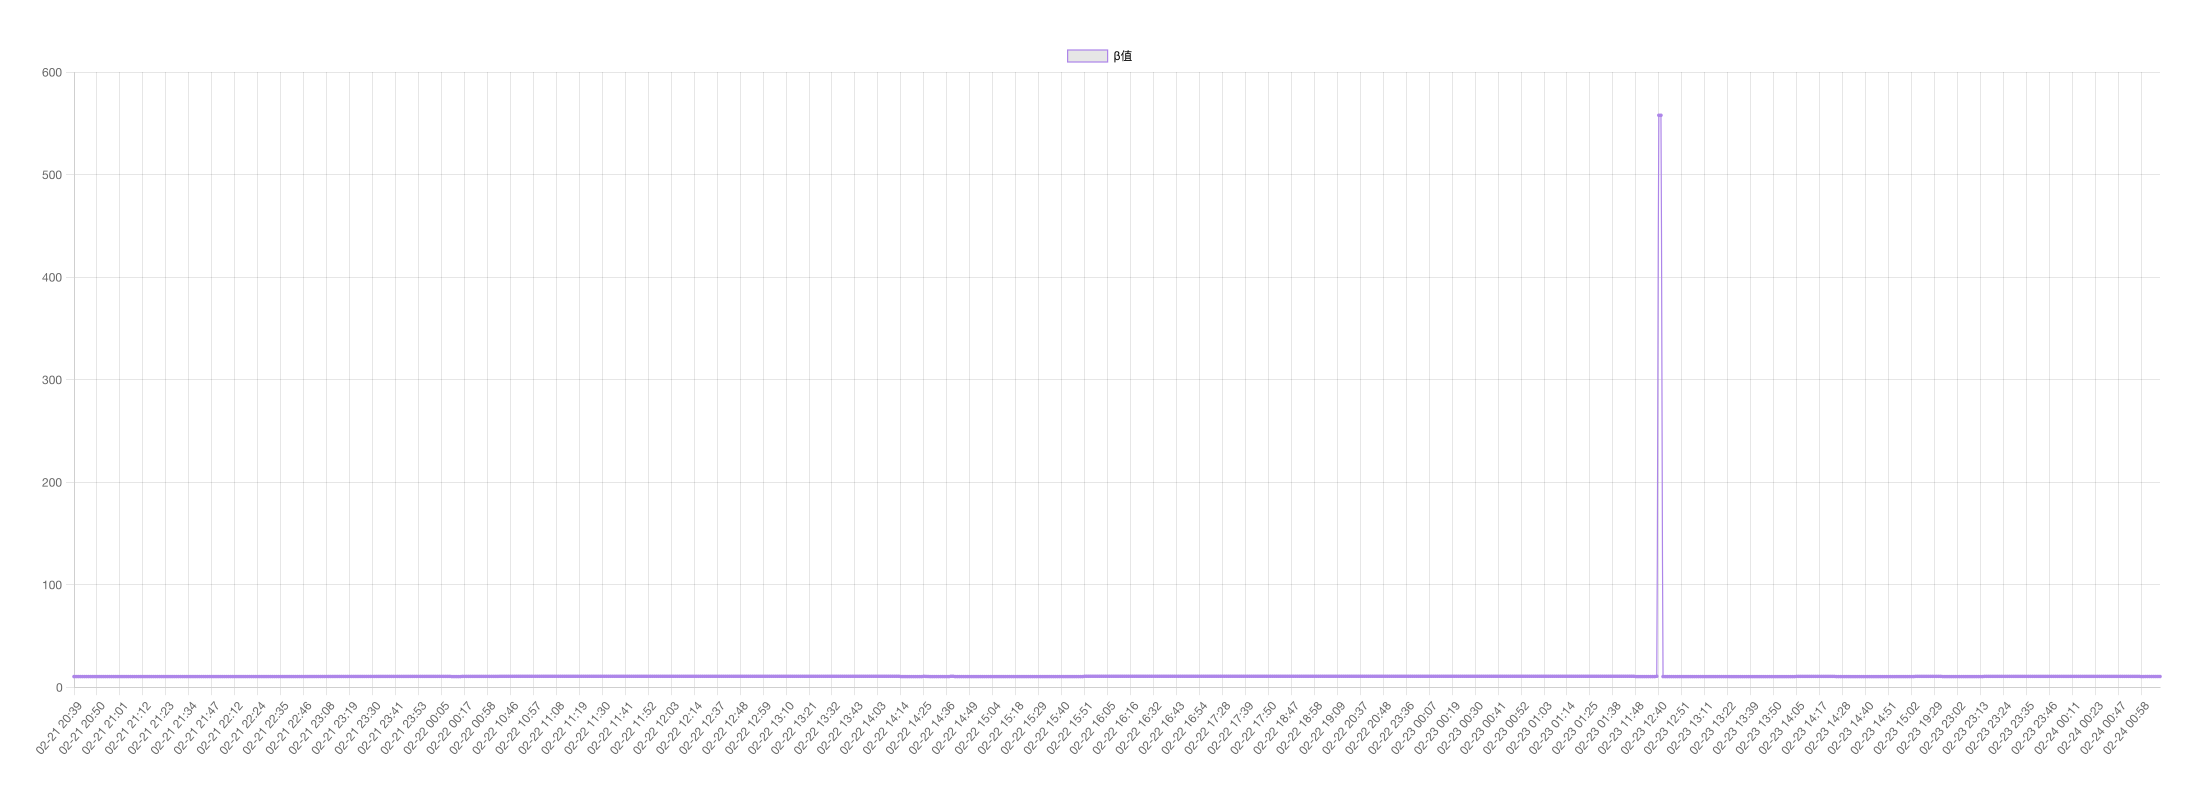
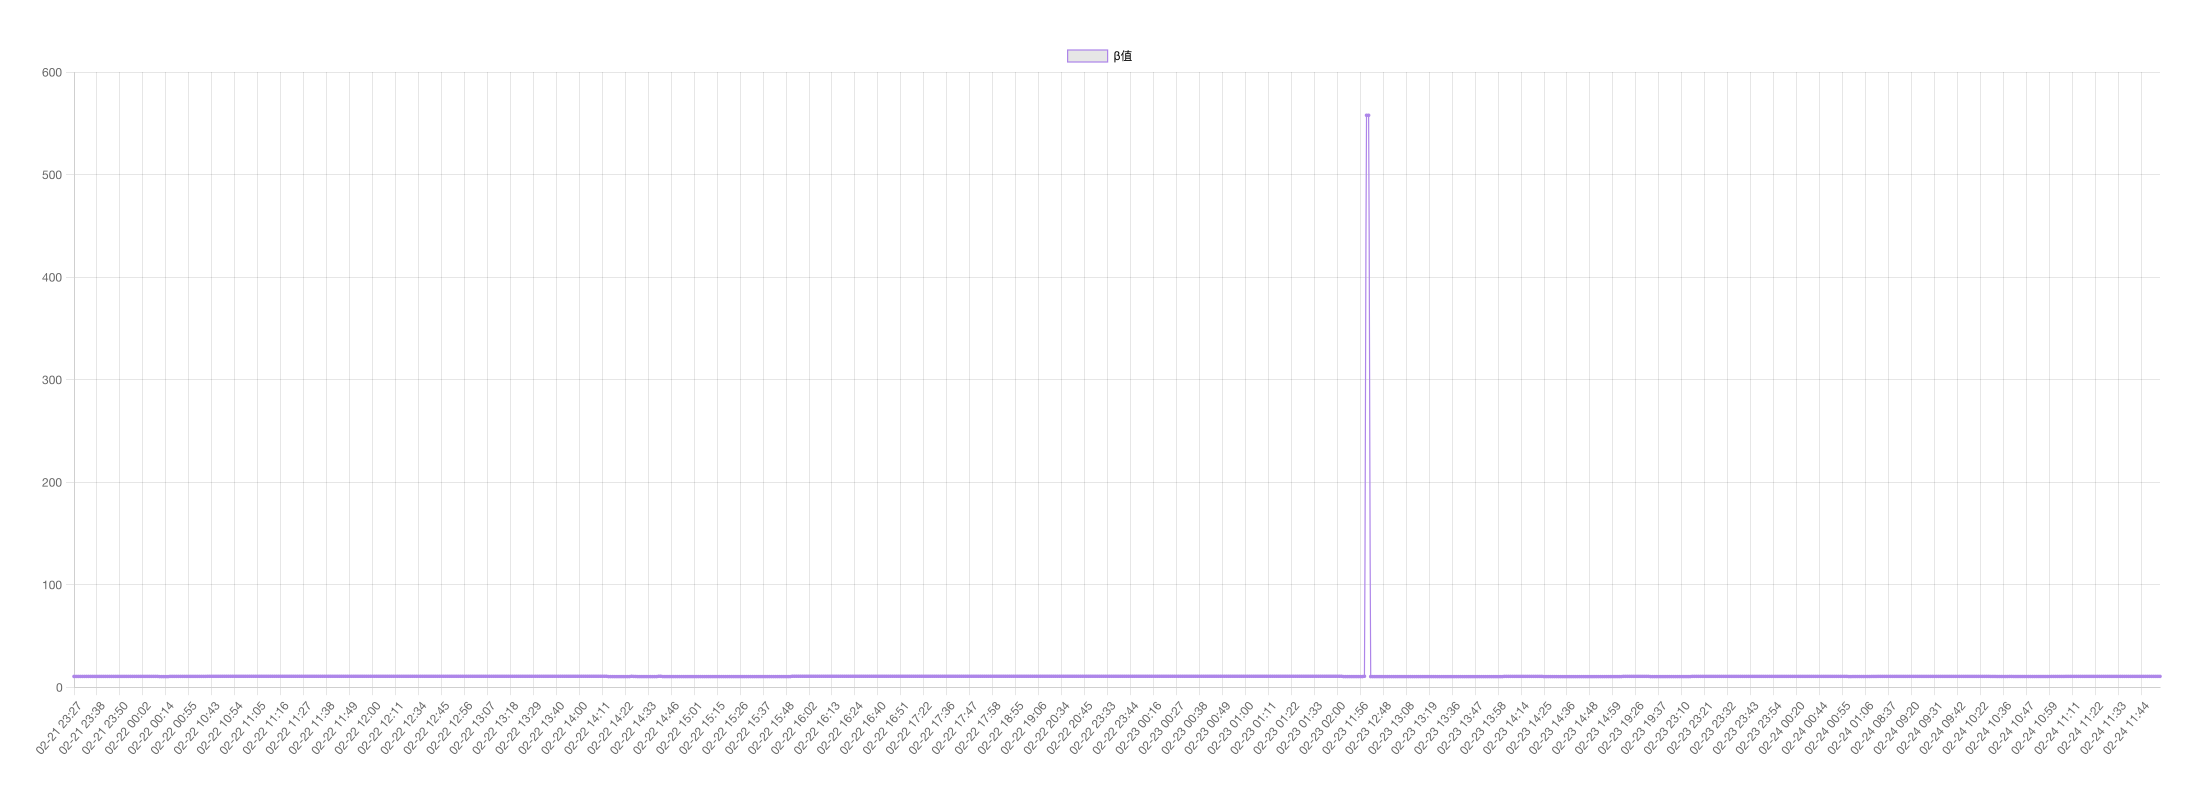
对K线去重

Changed region(s): [[0.0309, 0.875, 0.9891, 0.9062]]

diff --git a/src/paint.js b/src/paint.js
@@ -50,6 +50,8 @@ export function paint(assetIds, scaled_prices, themes, labels, gate, klines, bet
     plugins:[{
       afterDraw: function(chart) {
         const ctx = chart.ctx;
+        const collisionAvoidance = createCollisionAvoidance();
+
         drawTable(ctx, calculateCorrelationMatrix(klines.map(it=>it.prices)), assetIds, themes);
         const info_data = assetIds.map((assetId, i_info)=>{
           // 价格
@@ -72,7 +74,7 @@ export function paint(assetIds, scaled_prices, themes, labels, gate, klines, bet
             profit[`${assetIds[i]}:${assetIds[j]}`] = paintTradingSignal(chart, scaled_prices[i], scaled_prices[j], gate, klines, {
               key: `${s(assetIds[i])}:${s(assetIds[j])}`,
               index: k++,
-            });
+            }, collisionAvoidance);
           }
         }
 
@@ -80,7 +82,7 @@ export function paint(assetIds, scaled_prices, themes, labels, gate, klines, bet
         const beta_map = {};
         assetIds.map((assid, index) => beta_map[assid] = beta_arr[index]);
         // 为了避免标签重叠先搞个位置收集器
-        paintTransactions(chart, beta_map, bar_type, labels);
+        paintTransactions(chart, beta_map, bar_type, labels, collisionAvoidance);
 
         // 实时利润绘制
         paintProfit(profit, labels, assetIds, themes);
@@ -108,7 +110,7 @@ export function paint(assetIds, scaled_prices, themes, labels, gate, klines, bet
  * @param {*} graph 
  * @returns 
  */
-function paintTradingSignal(chart, yData1, yData2, gate, klines, graph){
+function paintTradingSignal(chart, yData1, yData2, gate, klines, graph, collisionAvoidance){
   const ctx = chart.ctx;
   const xScale = chart.scales.x;
   const yScale = chart.scales.y;
@@ -162,19 +164,20 @@ function paintTradingSignal(chart, yData1, yData2, gate, klines, graph){
       const end = [x, y2, klines[1].prices.slice().reverse()[i].toFixed(2)];
       const v = (diff_rate*100).toFixed(2)+"%";
       y1<y2
-      ? paintLine(ctx, start, end, v, '#607d8b')
-      : paintLine(ctx, end, start, v, '#607d8b')
+      ? paintLine(ctx, start, end, v, null,'#607d8b', collisionAvoidance)
+      : paintLine(ctx, end, start, v, null,'#607d8b', collisionAvoidance)
     } catch(e){
       console.warn(e);
       console.log('klines.prices',klines[0].prices)
       console.log('klines.prices',klines[1].prices)
+      console.log('klines[0].prices.slice().reverse()[i]',klines[0].prices.slice().reverse()[i])
       console.log('i',i)
     }
   }
   return profit;
 }
 
-function paintTransactions(chart, betaMap, bar_type, labels) {
+function paintTransactions(chart, betaMap, bar_type, labels, collisionAvoidance) {
   const ctx = chart.ctx;
   const xScale = chart.scales.x;
   const yScale = chart.scales.y;
@@ -186,12 +189,13 @@ function paintTransactions(chart, betaMap, bar_type, labels) {
   // 通用处理函数
   const processTransaction = (transaction, type) => {
     
-    const collisionAvoidance = createCollisionAvoidance();
-
     transaction.forEach(({ orders, profit, closed, side: transaction_side }) => {
       const [order1, order2] = orders;
       const { ts: ts1, avgPx: px1, instId: instId1, sz: sz1, side: side1, tgtCcy:tgtCcy1 } = order1;
       const { ts: ts2, avgPx: px2, instId: instId2, sz: sz2, side: side2, tgtCcy:tgtCcy2 } = order2;
+
+      //已平仓的不展示
+      if(type==='opening' && closed) return 
 
       let color = {
         'opening':OPEN_COLOR,
@@ -202,7 +206,6 @@ function paintTransactions(chart, betaMap, bar_type, labels) {
         color = "#ff000090"
       }
 
-      debugger
       // 转换时间戳和计算坐标
       const label_1 = formatTimestamp(ts1, bar_type);
       const label_2 = formatTimestamp(ts2, bar_type);
@@ -239,14 +242,17 @@ function paintTransactions(chart, betaMap, bar_type, labels) {
 
       // 生成标签文本
       const rateTag = `${(diffRate * 100).toFixed(2)}%`;
+      profit = profit || 0;
+      const profit_text = (profit >=0 ? "+":"-") + `${Math.abs(profit.toFixed(2))}`
       const tag = type === 'opening' 
         ? `${rateTag} 开仓${closed?"(已平)":""}` 
-        : `(${profit.toFixed(2)})${rateTag} 平仓`;
+        : `${rateTag} 平仓`;
+      const tag2 = type === 'opening' ? `${profit_text}$`:`${profit_text}$`
       
       // 绘制连接线
       ;spx1>spx2
-      ? paintLine(ctx, [x1, y1, v1], [x2, y2, v2], tag, color, collisionAvoidance)
-      : paintLine(ctx, [x2, y2, v2], [x1, y1, v1], tag, color, collisionAvoidance)
+      ? paintLine(ctx, [x1, y1, v1], [x2, y2, v2], tag, tag2, color, collisionAvoidance)
+      : paintLine(ctx, [x2, y2, v2], [x1, y1, v1], tag, tag2, color, collisionAvoidance)
 
     });
   };
@@ -257,7 +263,7 @@ function paintTransactions(chart, betaMap, bar_type, labels) {
 }
 
 
-function paintLine(ctx,[x1, y1, v1], [x2, y2, v2], text, color,collisionAvoidance){
+function paintLine(ctx,[x1, y1, v1], [x2, y2, v2], text, text2, color, collisionAvoidance){
   ctx.setLineDash([5, 3]);
   // 绘制竖线
   ctx.beginPath();
@@ -283,10 +289,14 @@ function paintLine(ctx,[x1, y1, v1], [x2, y2, v2], text, color,collisionAvoidanc
   const {width:w_v2} = ctx.measureText(v2);
 
   // 防止重叠，转换坐标
-  ;({x:x1, y:y1} = collisionAvoidance(x1 - w_v1 / 2, y1 - 20, w_v1, 25));
+  ;({x:x1, y:y1} = collisionAvoidance(x1 - w_v1 / 2, y1 - 20, w_v1, 40));
   ;({x:x2, y:y2} = collisionAvoidance(x2 - w_v2 / 2, y2 + 20, w_v2, 10));
 
   // 绘制标签
+  if(text2) {
+    const w_t2 = ctx.measureText(text2).width
+    ctx.fillText(`${text2}`, x1+(w_v1-w_t2)/2,  Math.min(y1, y2) - 24)
+  }
   ctx.fillText(`${text}`, x1+(w_v1-w_t)/2,  Math.min(y1, y2) - 12);
   // 绘制上边沿
   ctx.fillText(v1, x1, y1);

diff --git a/main.js b/main.js
@@ -4,7 +4,7 @@ import { findBestFitLine } from './src/regression.js'
 import { paint } from './src/paint.js'
 import { getPrices, dataset, toTrickTimeMark, formatTimestamp, getTsOfStartOfToday, parseCandleData, throttleAsync, getLastWholeMinute } from './src/tools.js'
 import { calculateReturns } from './src/mathmatic.js'
-import { writeBetaValue } from './src/recordTools.js'
+import { getLastTransactions, readOpeningTransactions, updateTransaction, writeBetaValue } from './src/recordTools.js'
 import { base_url } from './src/config.security.js'
 import { subscribeKlineChanel } from './src/api.js'
 
@@ -15,8 +15,8 @@ const dkp={}
 
 // storeConnection('ws_private', ws_private);
 
-const gate = 10.03;
-const bar_type = '1H';
+const gate = 10.04;
+const bar_type = '5m';
 const price_type = 'close'
 const once_limit = 300;
 const candle_limit =1500;
@@ -69,7 +69,7 @@ function printKlines(klines){
 
 
 const refreshKlineGraph = throttleAsync((dkp)=>{
-  const klines_dynamic = [];
+  let klines_dynamic = [];
   assets.map((asset, id)=>{
     const instId = asset.id;
     if(!dkp[instId]) return;
@@ -82,9 +82,42 @@ const refreshKlineGraph = throttleAsync((dkp)=>{
     klines_dynamic[id].prices = price_arr.concat(kline.prices)
     klines_dynamic[id].ts = ts_arr.concat(kline.ts)
     klines_dynamic[id].id = instId;
+    klines_dynamic[id] = duplicateRemoval(klines_dynamic[id]);
   })
 
+
   // 交易信号判断和处理
+  const opening_transactions = getLastTransactions(100,'opening');
+
+  opening_transactions.map(({tradeId, closed, orders, beta})=>{
+    if(!closed){
+
+      let fee_usdt = 0,cost = 0,sell=0;
+      orders.map(({instId, side, sz, tgtCcy, avgPx, accFillSz, fee, feeCcy})=>{
+        const asset = klines_dynamic.find(it=>it&&it.id === instId);
+        if(!asset) return;
+        const realtime_price = asset.prices[0];
+        // 单位 false:本币; true:usdt
+        const unit_fgt = tgtCcy === 'base_ccy'?false:true;
+        const unit_fee = feeCcy === 'USDT'?true:false;
+
+        if(side==='buy'){
+          cost += unit_fgt ? parseFloat(sz) : parseFloat(sz * avgPx);
+          // 实时估算
+          sell += realtime_price * accFillSz
+        }
+
+        if(side==='sell'){
+          sell += unit_fgt ? parseFloat(sz) : parseFloat(sz * avgPx);
+          // 实时估算
+          cost += realtime_price * accFillSz
+        }
+        fee_usdt += unit_fee ? parseFloat(fee) : parseFloat(fee * avgPx)
+      })
+      const profit =  sell - cost + fee_usdt;
+      updateTransaction(tradeId,'opening',{profit});
+    }
+  });
 
   if(klines_dynamic.every(it=>it) && klines_dynamic.length>=assets.length){
     printKlines(klines_dynamic);
@@ -105,12 +138,6 @@ ws_business.on('open', () => {
 
 ws_business.on('message', (message) => {
 
-
-
-  /**
-   * todo 问题出在label 身上，第一次渲染没问题因为是http一次性请求
-   * 当ws获取数据后，导致label在2.24 01-01位置重复了，因此获取的x坐标为 NaN
-   */
   const {arg={}, data} = JSON.parse(message.toString())
   const {channel, instId} = arg;
   if(channel.indexOf('candle')===0){
@@ -147,3 +174,19 @@ function storeConnection(conn_id, ws){
   ws_connection_pool[conn_id] = ws;
 }
 
+
+function duplicateRemoval(klines_dynamic){
+    // 对合并后的K线数据去重
+    const unque_ts = {};
+    const dump_ts=[]
+    klines_dynamic.ts.map((it,id)=>{
+      if(unque_ts[it]){
+        dump_ts.push(id);
+      }
+      unque_ts[it] = 1;
+    })
+    const {ts, prices} = klines_dynamic;
+    klines_dynamic.ts = ts.filter((it, index) => !dump_ts.includes(index));
+    klines_dynamic.prices = prices.filter((it, index) => !dump_ts.includes(index));
+    return klines_dynamic;
+}

diff --git a/src/trading.js b/src/trading.js
@@ -203,7 +203,7 @@ function processOrderDetail(orderDetail){
 
 // const tradeId = await open_positions('ETH-USDT','SOL-USDT',300)
 // const tradeId = await open_positions('SOL-USDT','BTC-USDT',10)
-const tradeId = await open_positions('SOL-USDT','ETH-USDT',300)
+const tradeId = await open_positions('SOL-USDT','ETH-USDT',100)
 // const tradeId = await open_positions('ETH-USDT','BTC-USDT',200)
 // const tradeId = await open_positions('BTC-USDT', 'ETH-USDT',200);
 // const tradeId = await open_positions_limit('BTC-USDT', 'ETH-USDT',91000, 3500, 20)
